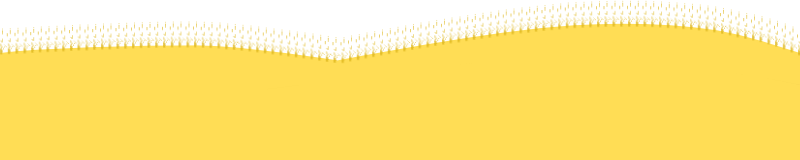
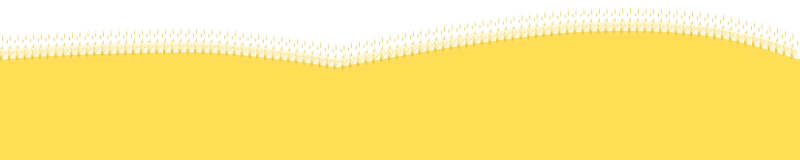
poprawki tła, ziemia i tabliczka

Changed region(s): [[0.0, 0.0, 1.0, 0.4375]]

diff --git a/src/com/example/mygame/ResourcesManager.java b/src/com/example/mygame/ResourcesManager.java
@@ -69,6 +69,7 @@ public class ResourcesManager {
 	public ITextureRegion mParallaxLayerBack;
 	public ITextureRegion mParallaxLayerMid;
 	public ITextureRegion mParallaxLayerFront;
+	public ITextureRegion mParallaxLayerGrass;
 	
 	public Music runSound;
 	public Music screamSound;
@@ -127,7 +128,7 @@ public class ResourcesManager {
 		final ITexture bestScoreTexture = new BitmapTextureAtlas(activity.getTextureManager(), 256, 256, TextureOptions.BILINEAR_PREMULTIPLYALPHA);
 		
 		mainFont = FontFactory.createStrokeFromAsset(activity.getFontManager(), mainFontTexture, activity.getAssets(), "mainFont.ttf", 30, true, Color.WHITE, 2, Color.rgb(22, 144, 189));
-		bestScoreFont = FontFactory.createStrokeFromAsset(activity.getFontManager(), bestScoreTexture, activity.getAssets(), "bestScoreFont.ttf", 50, true, Color.WHITE, 2, Color.WHITE);
+		bestScoreFont = FontFactory.createStrokeFromAsset(activity.getFontManager(), bestScoreTexture, activity.getAssets(), "bestScoreFont.ttf", 50, true, Color.GRAY, 2, Color.GRAY);
 		mainFont.load();
 		bestScoreFont.load();
 	}
@@ -163,7 +164,7 @@ public class ResourcesManager {
 	
 	public void loadGameGraphics(){
 		BitmapTextureAtlasTextureRegionFactory.setAssetBasePath("gfx/game/");
-	    gameTextureAtlas = new BuildableBitmapTextureAtlas(activity.getTextureManager(), 512, 512, TextureOptions.DEFAULT);
+	    gameTextureAtlas = new BuildableBitmapTextureAtlas(activity.getTextureManager(), 512, 512, TextureOptions.BILINEAR_PREMULTIPLYALPHA);
 	    playerTextureAtlas = new BuildableBitmapTextureAtlas(activity.getTextureManager(), 2048, 2048, TextureOptions.BILINEAR);
 	    
 	    //obstacle_top_region = BitmapTextureAtlasTextureRegionFactory.createFromAsset(gameTextureAtlas, activity, "obstacle_top.png");
@@ -179,8 +180,9 @@ public class ResourcesManager {
         dirtRepeatingAtlas = new BitmapTextureAtlas(activity.getTextureManager(), 311, 120, TextureOptions.REPEATING_BILINEAR_PREMULTIPLYALPHA);
         dirt_texture_region = BitmapTextureAtlasTextureRegionFactory.createFromAsset(dirtRepeatingAtlas, activity, "dirt.png", 0, 0);
         
-		mAutoParallaxBackgroundTexture = new BitmapTextureAtlas(activity.getTextureManager(), 1024, 1024, TextureOptions.DEFAULT);
-		mParallaxLayerFront = BitmapTextureAtlasTextureRegionFactory.createFromAsset(mAutoParallaxBackgroundTexture, activity, "parallax_background_layer_front.png", 0, 0);
+		mAutoParallaxBackgroundTexture = new BitmapTextureAtlas(activity.getTextureManager(), 1024, 1024, TextureOptions.BILINEAR_PREMULTIPLYALPHA);
+		mParallaxLayerGrass = BitmapTextureAtlasTextureRegionFactory.createFromAsset(mAutoParallaxBackgroundTexture, activity, "grass.png", 0, 0);
+		mParallaxLayerFront = BitmapTextureAtlasTextureRegionFactory.createFromAsset(mAutoParallaxBackgroundTexture, activity, "parallax_background_layer_front.png", 0, 15);
 		mParallaxLayerBack = BitmapTextureAtlasTextureRegionFactory.createFromAsset(mAutoParallaxBackgroundTexture, activity, "parallax_background_layer_back.png", 0, 200);
 		mParallaxLayerMid = BitmapTextureAtlasTextureRegionFactory.createFromAsset(mAutoParallaxBackgroundTexture, activity, "parallax_background_layer_mid.png", 0, 689);
 		mAutoParallaxBackgroundTexture.load();

diff --git a/src/com/example/mygame/scenes/GameScene.java b/src/com/example/mygame/scenes/GameScene.java
@@ -75,6 +75,7 @@ public class GameScene extends BaseScene implements IOnSceneTouchListener {
 	private TexturedPolygon ground;
 	private AutoParallaxBackground autoParallaxBackground;
 	private ParallaxEntity frontParallaxBackground;
+	private ParallaxEntity grassParallaxBackground;
 	private boolean firstUpdate = true;
 	Body crateBody;
 	Body pigBody;
@@ -105,11 +106,11 @@ public class GameScene extends BaseScene implements IOnSceneTouchListener {
 		pigs = new ArrayList<Body>();
 		createHUD();
 		createPhysics();
-		createPlayer();
 		createGround();
 		setOnSceneTouchListener(this);
 		createBackground();
 		createBestScoreTable();
+		createPlayer();
 		attachChild(backgroundLayer);
 		attachChild(foregroundLayer);
 	}
@@ -142,7 +143,10 @@ public class GameScene extends BaseScene implements IOnSceneTouchListener {
 
 		frontParallaxBackground = new ParallaxEntity(-20.0f, new Sprite(0, 280, resourcesManager.mParallaxLayerFront, resourcesManager.vbom));
 		autoParallaxBackground.attachParallaxEntity(frontParallaxBackground);
-
+		
+		grassParallaxBackground = new ParallaxEntity(-20.0f, new Sprite(0, 346, resourcesManager.mParallaxLayerGrass, resourcesManager.vbom));
+		autoParallaxBackground.attachParallaxEntity(grassParallaxBackground);
+		
 		setBackground(autoParallaxBackground);
 	}
 
@@ -150,7 +154,7 @@ public class GameScene extends BaseScene implements IOnSceneTouchListener {
 		Sprite sSign = new Sprite(600, 50, resourcesManager.sign_region, resourcesManager.vbom);
 		foregroundLayer.attachChild(sSign);
 		bestScoreText = new Text(0, 0, ResourcesManager.getInstance().bestScoreFont, "012345679", ResourcesManager.getInstance().vbom);
-		bestScoreText.setPosition(660, 130);
+		bestScoreText.setPosition(660, 110);
 		foregroundLayer.attachChild(bestScoreText);
 	}
 
